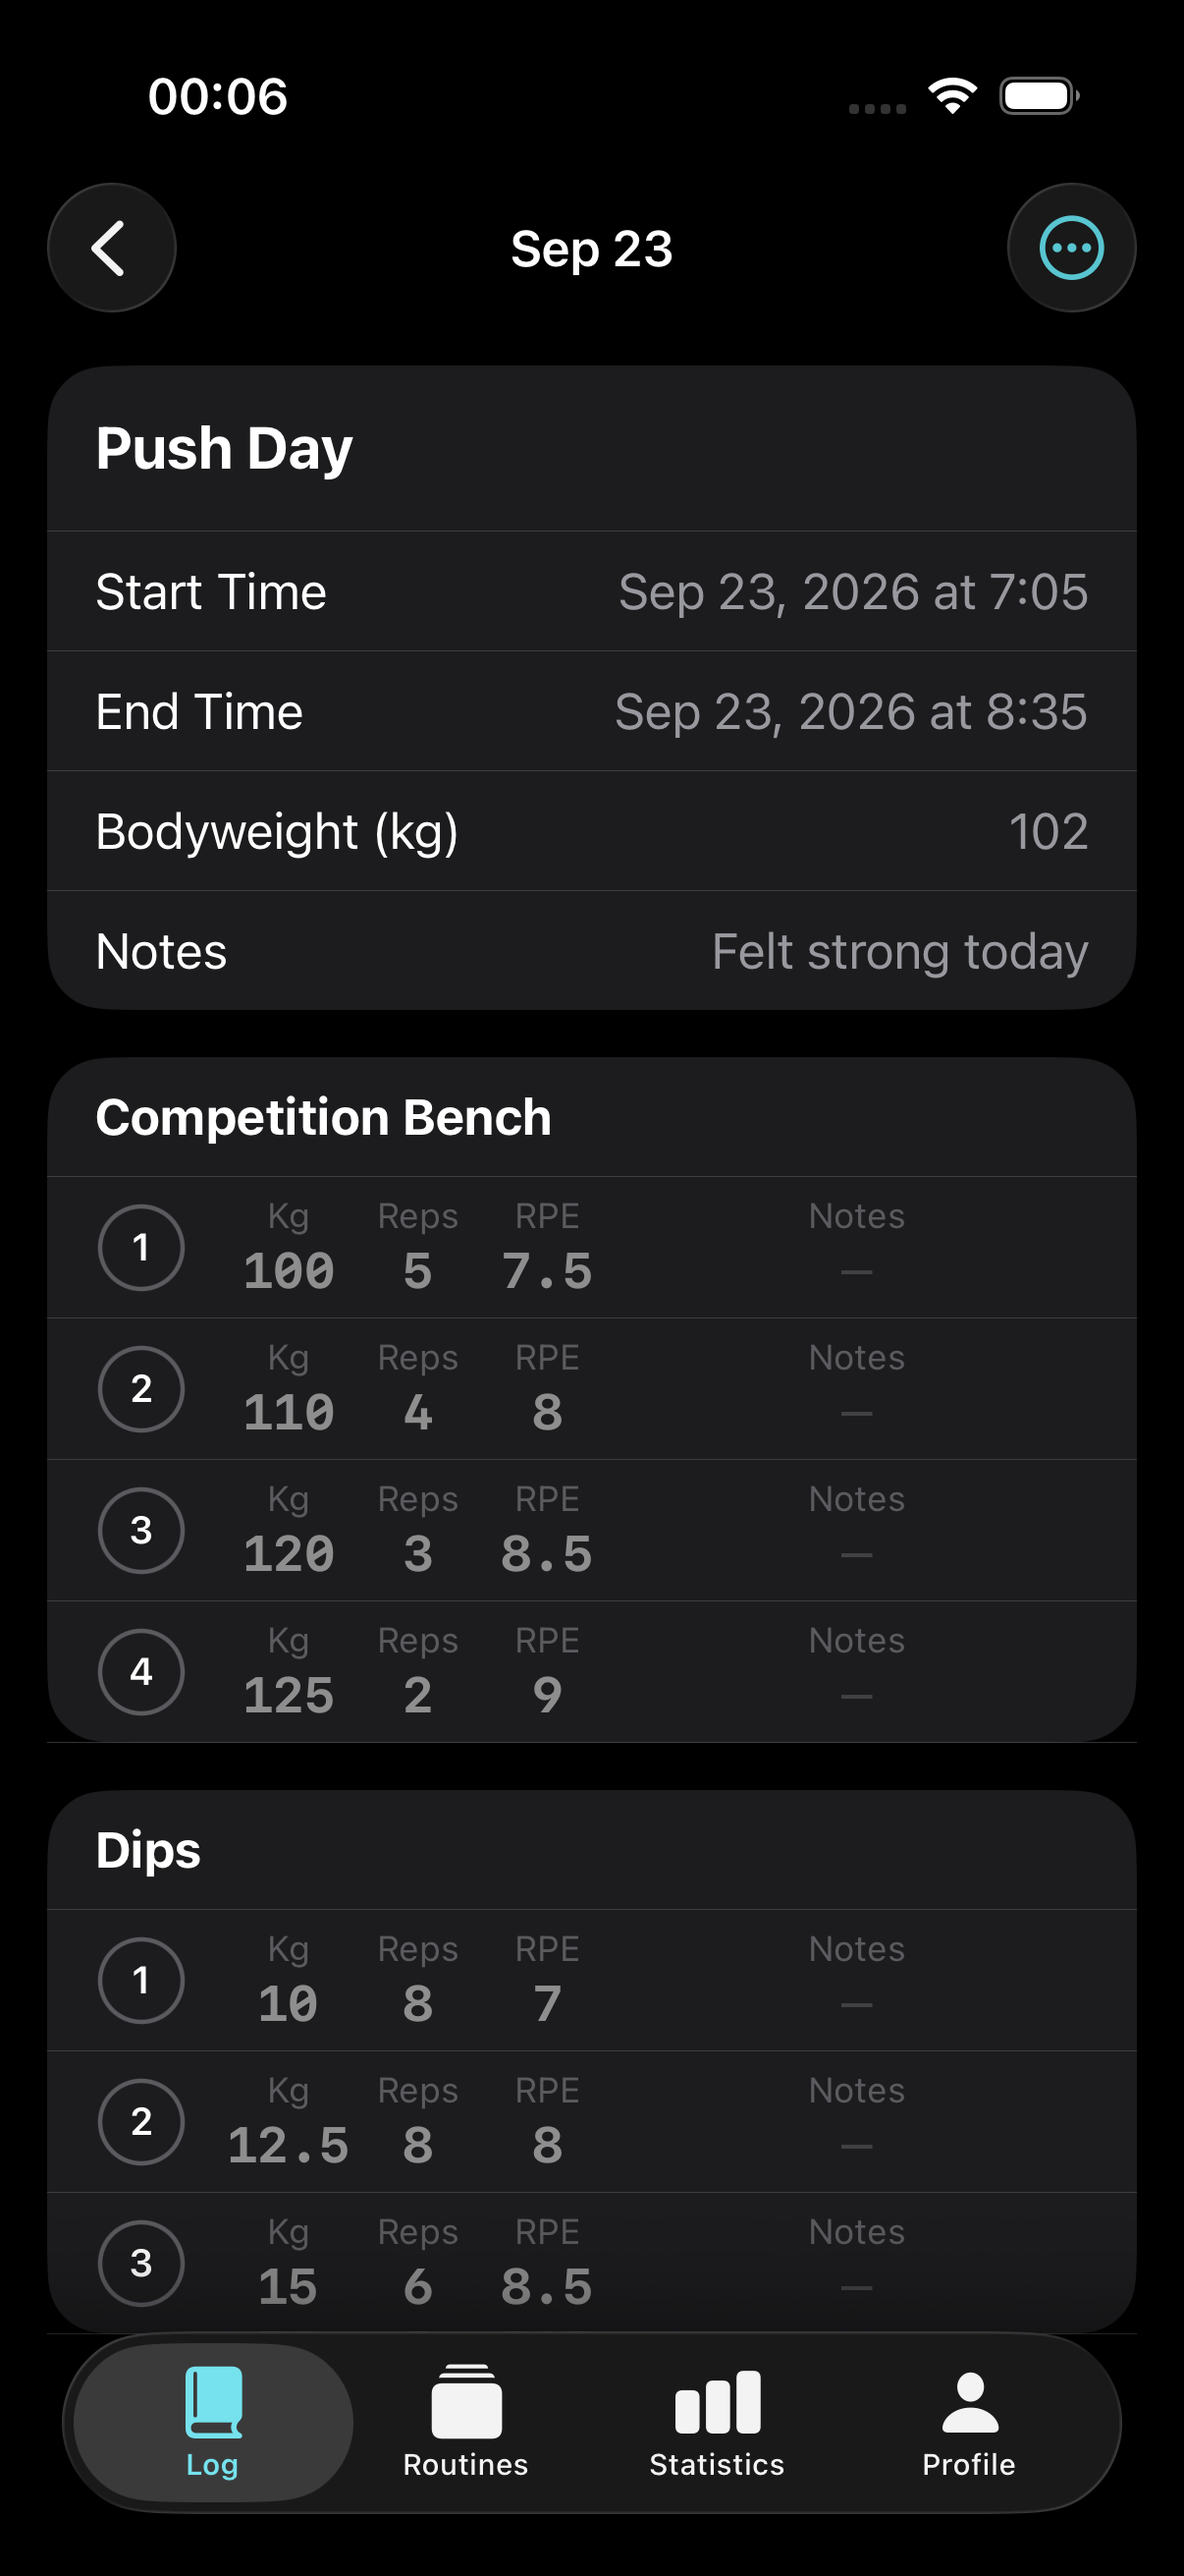
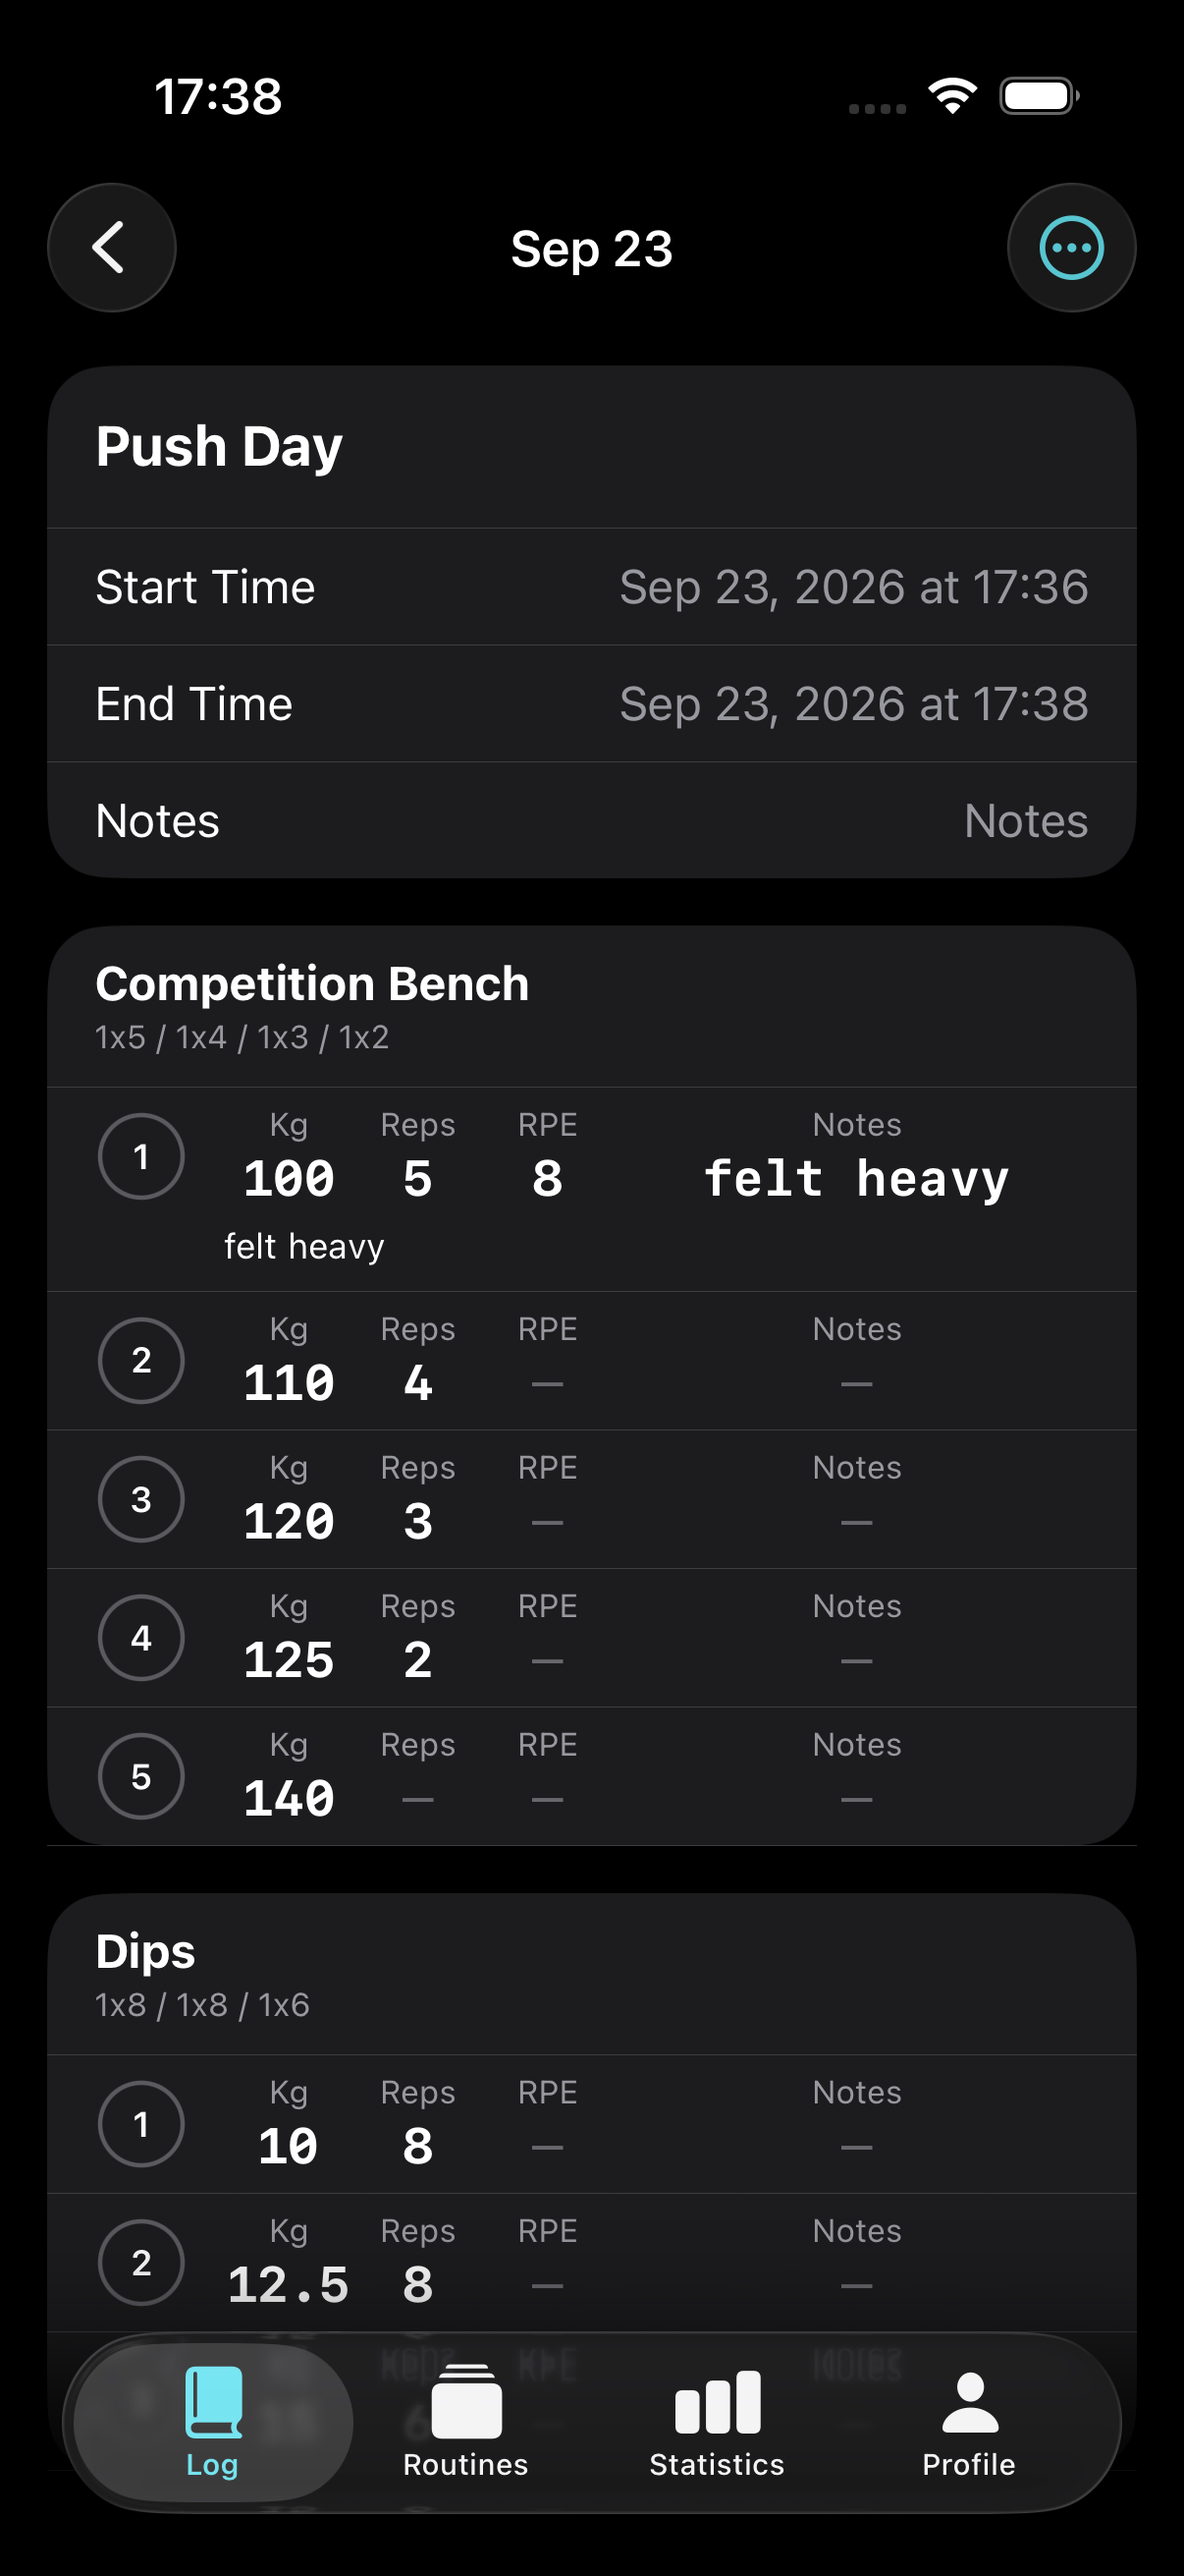
docs: refresh the dark visual set for inline entry (10-rpe-inline, 10b-set-cell-typed, 07/11/13/15/16) and record the pass in BUILD-REPORT section 0

diff --git a/docs/BUILD-REPORT.md b/docs/BUILD-REPORT.md
@@ -11,11 +11,94 @@ pass covers every screen against the 17 reference screenshots (§4), and the
 Dynamic Type / accessibility checks are in §5. What cannot be shown in a
 simulator is listed as device-only and is never claimed to work (§6).
 
-The commits after `1941ab8` are documentation only (this report, the
-visual-pass doc and the capture files); no code changed after the gate run.
+The commits after `1941ab8` were documentation only until the inline-entry
+change recorded in §0 below, which *is* code; that section carries its own gate
+re-run.
 
 The previous version of this report said 35/35 units and "the Mac lost power
 mid-run"; both were stale and are gone.
+
+---
+
+## 0. Inline entry — no text-entry sheets (2026-09-23, after the gate above)
+
+Owner feedback on the screens that mirror the reference: the cells that opened
+a sheet with a text box now take the value **straight in the box**.
+
+**What is typed in place now**
+
+- Set rows: weight, reps, time, distance, kcal, **RPE** and the set note.
+- The exercise note (the notes icon now puts the caret in the inline field
+  instead of opening a sheet), the workout note, and the routine name + notes.
+- The routine exercise editor's warm-up / working set counts (typed fields; they
+  were steppers).
+
+**Rules kept**
+
+- Values commit on submit or focus loss, never per keystroke — a half-typed
+  `1.` must not be parsed and written back, or the field rewrites itself and
+  eats the decimal point.
+- RPE keeps its half-step snapping and 1–10 clamp, now in the cell's commit.
+- The RPE quick chips (6 · 7 · 7.5 · 8 · 8.5 · 9) moved inline: they appear
+  under the row whose RPE box is being edited. A chip tap discards a half-typed
+  draft rather than overwriting it.
+- A cleared NUMBER box means "no value"; a cleared TEXT box means empty.
+  Unparseable input is refused and the box snaps back to the stored value.
+- The routine name reverts if you clear it (an empty name would blank the list
+  row and the navigation title).
+- One keyboard **Done** per screen clears whatever cell is focused — the number
+  pads have no return key.
+- Still a sheet, deliberately: **creating** a routine (`RoutineEditorSheet` asks
+  for the name before the routine exists). No other text-entry sheet remains in
+  these flows.
+
+**Deleted:** `RPEInputSheet`, `NumberInputSheet`, `SetNoteSheet`,
+`ExerciseNotesSheet`, `SessionNotesSheet`, `RoutineNotesSheet`
+(`Features/Workout/InputSheets.swift` is gone); replaced by `InlineCell` /
+`InlineTextField` (`Features/Workout/InlineCells.swift`).
+
+**Gate re-run after the change** (`bash scripts/mac-tests.sh`, one run):
+
+```
+** BUILD SUCCEEDED **
+✔ Test run with 36 tests in 5 suites passed after 0.650 seconds.
+Test Case '-[RepLogUITests.RepLogUITests testExerciseSearchFilters]' passed (23.502 seconds).
+Test Case '-[RepLogUITests.RepLogUITests testOfflineDrill]' passed (93.929 seconds).
+Test Case '-[RepLogUITests.RepLogUITests testRPEChipsDisplayWholeValues]' passed (31.939 seconds).
+Test Case '-[RepLogUITests.RepLogUITests testRPEEntryTypes85AndReadsBack]' passed (30.690 seconds).
+Test Case '-[RepLogUITests.RepLogUITests testSessionRowOpensDetail]' passed (40.137 seconds).
+Test Case '-[RepLogUITests.RepLogUITests testSetNoteEntry]' passed (30.646 seconds).
+Test Case '-[RepLogUITests.RepLogUITests testSyncURLAndTokenFields]' passed (34.357 seconds).
+	 Executed 7 tests, with 0 failures (0 unexpected) in 285.200 (285.215) seconds
+** TEST SUCCEEDED **
+All Mac tests passed.
+```
+
+The UI tests were rewritten onto the inline boxes (type → keyboard Done → read
+the value back); they no longer touch a sheet.
+
+**Two defects the work surfaced, both fixed**
+
+1. With a custom `prompt:` style, iOS rendered the text *being typed* in the
+   prompt's grey while the keyboard was up, so a value you were entering looked
+   like a placeholder until it was committed (seen in the capture
+   `10b-set-cell-typed.png`). The empty state is now a sibling `Text`, the field
+   always renders bold/primary, and an empty box keeps a 44 pt minimum so it
+   stays focusable.
+2. `-ResetRepLog YES` wiped UserDefaults but **not** the SwiftData store. The
+   outbox is rebuilt from each session's `syncState`, so a session left queued
+   by an earlier run re-uploaded as soon as a sync URL was configured: after a
+   visual-tour run the offline drill uploaded 8 rows of the tour's session on
+   top of its own and read **9** where it asserts **1**. The hook now deletes
+   the store as well. It passed before only while the store happened to hold no
+   queued sessions.
+
+**Evidence:** `docs/visual/10-rpe-inline.png` (RPE box focused, chips inline
+under the row), `10b-set-cell-typed.png` (140 typed into an empty weight box,
+caret in the box, keyboard up), `11-active-workout-populated.png` (typed note +
+a typed value), `15-routine-detail.png`, `16-routine-exercise-editor.png`.
+The `docs/visual/dynamic-type/` set is from the earlier pass and predates this
+change — those four screens are the ones whose layout moved.
 
 ---
 

diff --git a/docs/UI-VISUAL-PASS.md b/docs/UI-VISUAL-PASS.md
@@ -26,6 +26,7 @@ Final committed set: `docs/visual/` — one file per screen, plus
 | 08-select-exercise.png | Select Exercise sheet (categories) |
 | 09-select-exercise-category.png | Select Exercise, category drill-in |
 | 10-rpe-inline.png | RPE typed in place — chips 6/7/7.5/8/8.5/9 sit under the editing row |
+| 10b-set-cell-typed.png | A weight typed straight into its set cell (caret in the box, keyboard up) |
 | 11-active-workout-populated.png | Active workout with RPE + a set note |
 | 12-rest-timer.png | Rest timer sheet |
 | 13-session-detail.png | Completed-session detail |
